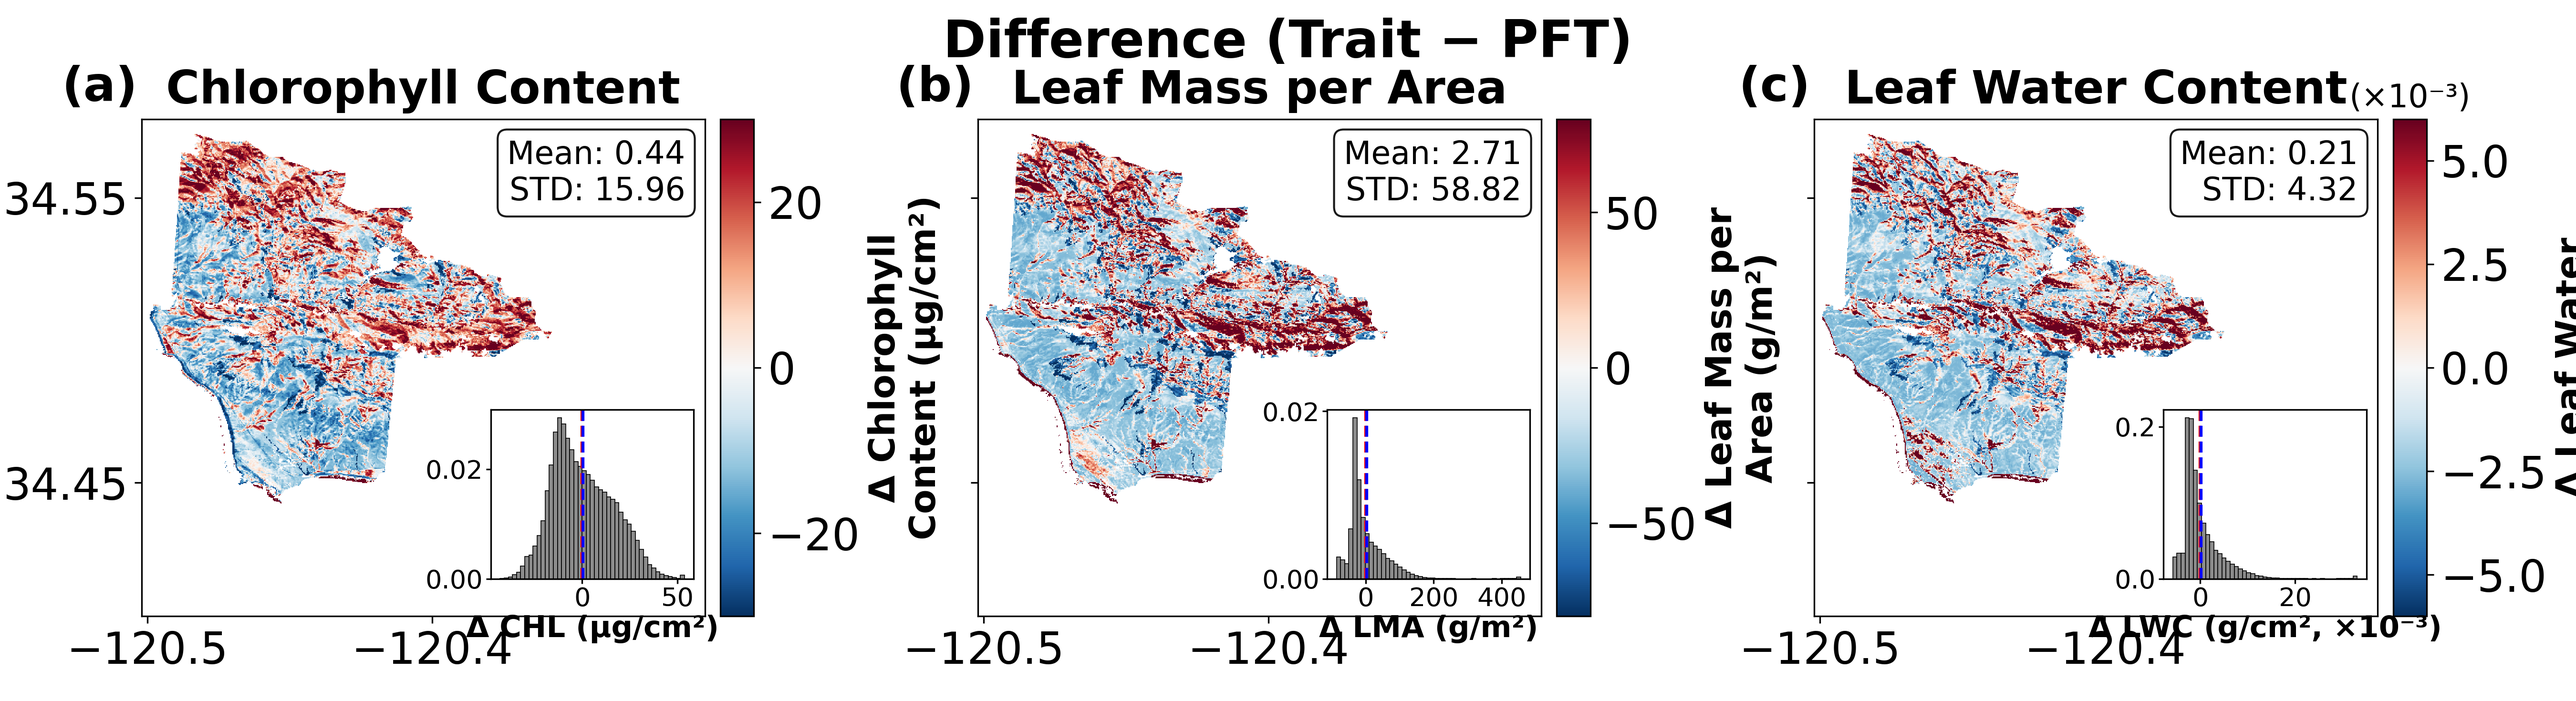
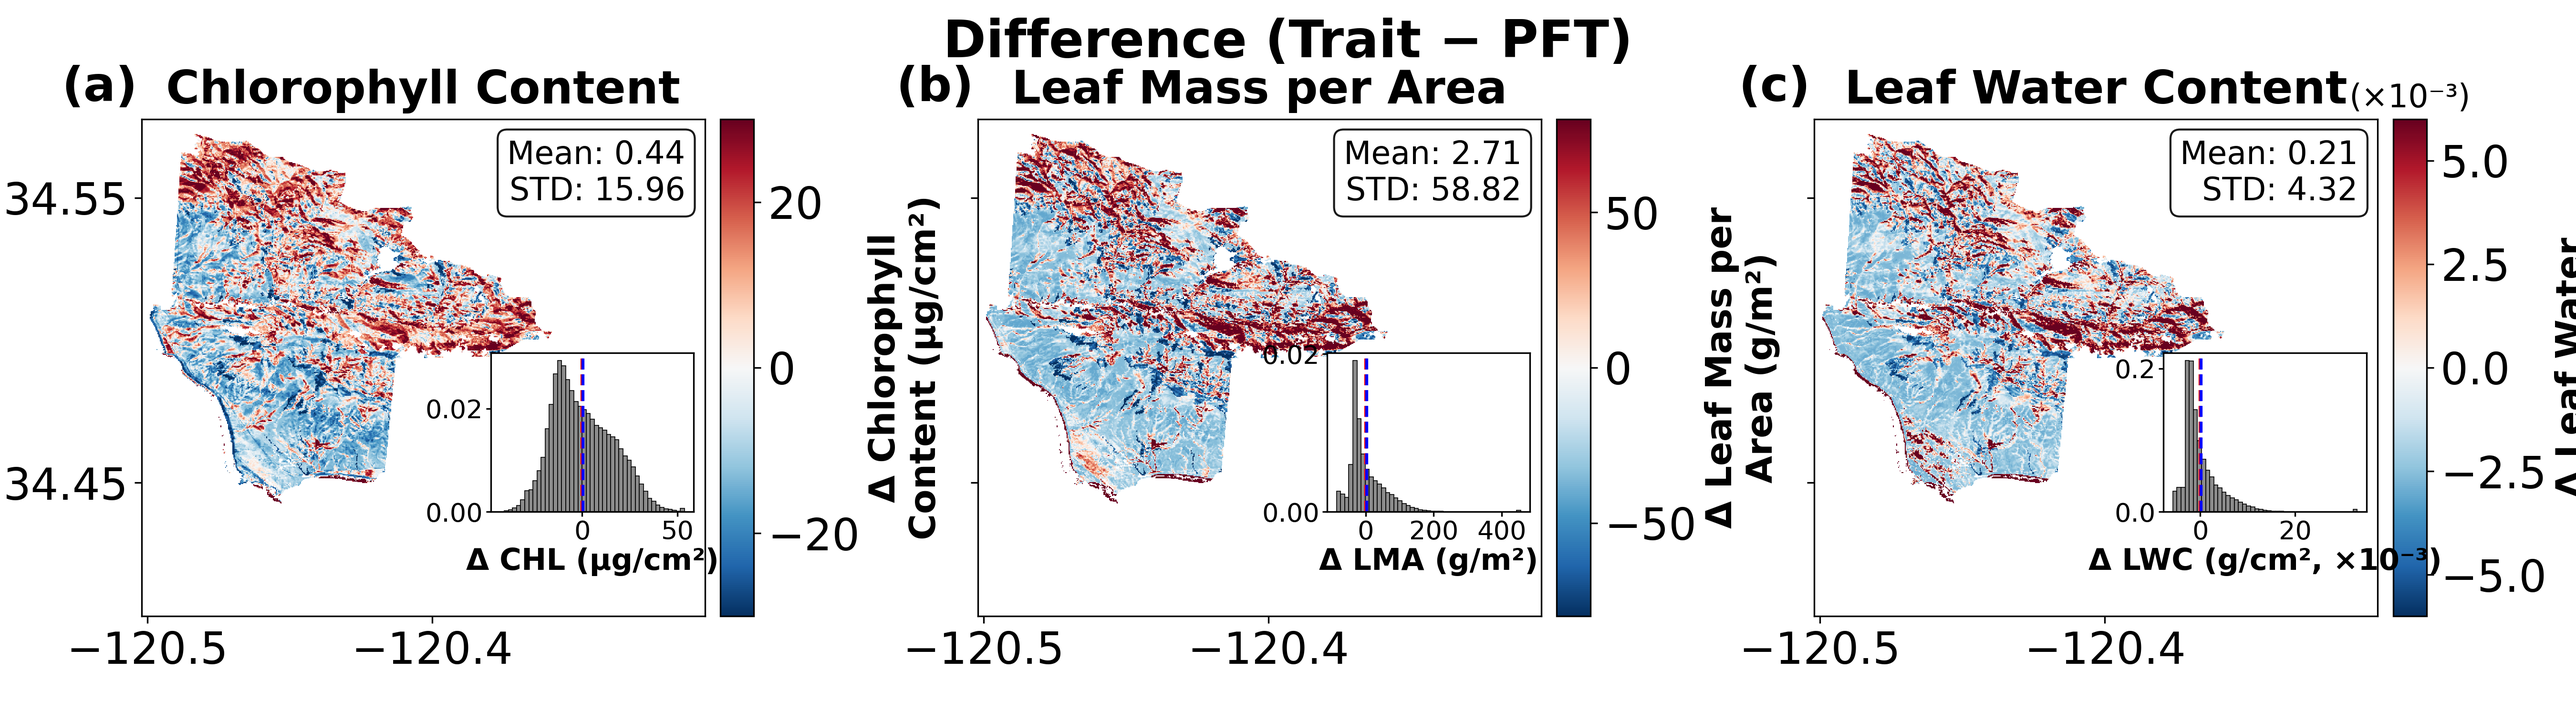
Figure 5b: raise the Δ-histogram inset so its x-label clears the lon tick labels
The inset x-axis name was dipping below the map frame onto the longitude tick
labels. Raised the inset (y offset 0.075 -> 0.21 of the map height) so its x-label
stays inside the white area with clear separation from the map's lon labels.

diff --git a/plotting/figure_5_spatial_trait_maps_legible.py b/plotting/figure_5_spatial_trait_maps_legible.py
@@ -217,9 +217,11 @@ for c, (trait_name, _t, _p, diff_data) in enumerate(traits_data):
     cb.ax.tick_params(labelsize=CBAR_TICK)
     if trait_name == 'lwc':
         cb.ax.set_title('(×10⁻³)', fontsize=16, pad=6)
-    # Δ-distribution histogram INSET in the blank lower-right (secondary to the map)
-    iw, ih = 0.36 * MWb, 0.34 * MHb
-    hax = figB.add_axes([x + MWb - iw - 0.02 * MWb, map_y + 0.075 * MHb, iw, ih])
+    # Δ-distribution histogram INSET in the blank lower-right (secondary to the map).
+    # Raised so its x-axis label stays inside the white area, clear of the map's
+    # longitude tick labels below the frame.
+    iw, ih = 0.36 * MWb, 0.32 * MHb
+    hax = figB.add_axes([x + MWb - iw - 0.02 * MWb, map_y + 0.21 * MHb, iw, ih])
     v = disp[np.isfinite(disp) & (disp != 0)]
     hax.hist(v, bins=45, color='0.55', edgecolor='black', linewidth=0.4, density=True)
     hax.axvline(0, color='red', linestyle='--', linewidth=1.5)
